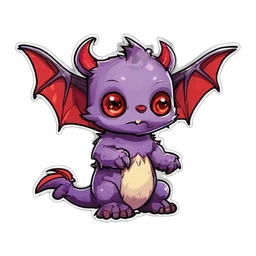
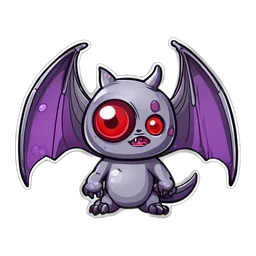
몬스터 5종·보스 10종 그림 반영
- 슬라임, 박쥐(새로 그림), 고블린 궁수, 골렘, 엘리트와 보스 10종
- 박쥐와 그리폰 보스는 떠서 날아다님
- 맞을 때 하얀 실루엣으로 바뀌는 대신 그림 위에 하얀빛이 반투명하게 덮임

diff --git a/imglist.js b/imglist.js
@@ -1,3 +1,3 @@
 // generated by tools/process_assets.py — images available in img/
-const IMG_LIST = ["heroes/alchemist", "heroes/apprentice", "heroes/archangel", "heroes/archer", "heroes/archmage", "heroes/berserker", "heroes/catgirl", "heroes/commander", "heroes/demonlord", "heroes/dragoon", "heroes/elfarcher", "heroes/farmer", "heroes/gunner", "heroes/gunqueen", "heroes/hunter", "heroes/knight", "heroes/lich", "heroes/mage", "heroes/monk", "heroes/ninja", "heroes/paladin", "heroes/priest", "heroes/reaper", "heroes/rogue", "heroes/sailor", "heroes/saint", "heroes/samurai", "heroes/scout", "heroes/shadowqueen", "heroes/sniper", "heroes/squire", "heroes/stormmage", "heroes/sunking", "heroes/tiger", "heroes/titan", "heroes/viking", "items/gold", "monsters/bat", "pets/bee", "pets/bunny", "pets/cat", "pets/dragon", "pets/eagle", "pets/fairy", "pets/fireslime", "pets/fox", "pets/ghost", "pets/golem", "pets/icedragon", "pets/iceslime", "pets/jelly", "pets/kingslime", "pets/owl", "pets/penguin", "pets/phoenix", "pets/puppy", "pets/robot", "pets/shroom", "pets/slime", "pets/starspirit", "pets/turtle", "pets/wolf", "weapons/axe_A", "weapons/axe_B", "weapons/axe_C", "weapons/axe_D", "weapons/axe_EPIC", "weapons/axe_F", "weapons/axe_LEGEND", "weapons/axe_S", "weapons/axe_SS", "weapons/axe_SSS", "weapons/bow", "weapons/bow_A", "weapons/bow_B", "weapons/bow_C", "weapons/bow_D", "weapons/bow_EPIC", "weapons/bow_F", "weapons/bow_LEGEND", "weapons/bow_S", "weapons/bow_SS", "weapons/bow_SSS", "weapons/crossbow", "weapons/crossbow_A", "weapons/crossbow_B", "weapons/crossbow_C", "weapons/crossbow_D", "weapons/crossbow_EPIC", "weapons/crossbow_F", "weapons/crossbow_LEGEND", "weapons/crossbow_S", "weapons/crossbow_SS", "weapons/crossbow_SSS", "weapons/dagger", "weapons/dagger_A", "weapons/dagger_B", "weapons/dagger_C", "weapons/dagger_D", "weapons/dagger_EPIC", "weapons/dagger_F", "weapons/dagger_LEGEND", "weapons/dagger_S", "weapons/dagger_SS", "weapons/dagger_SSS", "weapons/gun", "weapons/gun_A", "weapons/gun_B", "weapons/gun_C", "weapons/gun_D", "weapons/gun_EPIC", "weapons/gun_F", "weapons/gun_LEGEND", "weapons/gun_S", "weapons/gun_SS", "weapons/gun_SSS", "weapons/hammer_A", "weapons/hammer_B", "weapons/hammer_C", "weapons/hammer_D", "weapons/hammer_EPIC", "weapons/hammer_F", "weapons/hammer_LEGEND", "weapons/hammer_S", "weapons/hammer_SS", "weapons/hammer_SSS", "weapons/scythe_A", "weapons/scythe_B", "weapons/scythe_C", "weapons/scythe_D", "weapons/scythe_EPIC", "weapons/scythe_F", "weapons/scythe_LEGEND", "weapons/scythe_S", "weapons/scythe_SS", "weapons/scythe_SSS", "weapons/spear_A", "weapons/spear_B", "weapons/spear_C", "weapons/spear_D", "weapons/spear_EPIC", "weapons/spear_F", "weapons/spear_LEGEND", "weapons/spear_S", "weapons/spear_SS", "weapons/spear_SSS", "weapons/spellbook_A", "weapons/spellbook_B", "weapons/spellbook_C", "weapons/spellbook_D", "weapons/spellbook_EPIC", "weapons/spellbook_F", "weapons/spellbook_LEGEND", "weapons/spellbook_S", "weapons/spellbook_SS", "weapons/spellbook_SSS", "weapons/staff_A", "weapons/staff_B", "weapons/staff_C", "weapons/staff_D", "weapons/staff_EPIC", "weapons/staff_F", "weapons/staff_LEGEND", "weapons/staff_S", "weapons/staff_SS", "weapons/staff_SSS", "weapons/sword", "weapons/sword_A", "weapons/sword_B", "weapons/sword_C", "weapons/sword_D", "weapons/sword_EPIC", "weapons/sword_F", "weapons/sword_LEGEND", "weapons/sword_S", "weapons/sword_SS", "weapons/sword_SSS", "weapons/wand_A", "weapons/wand_B", "weapons/wand_C", "weapons/wand_D", "weapons/wand_EPIC", "weapons/wand_F", "weapons/wand_LEGEND", "weapons/wand_S", "weapons/wand_SS", "weapons/wand_SSS"];
-const IMG_BOTTOM = {"heroes/alchemist": 0.938, "heroes/apprentice": 0.938, "heroes/archangel": 0.938, "heroes/archer": 0.938, "heroes/archmage": 0.938, "heroes/berserker": 0.926, "heroes/catgirl": 0.938, "heroes/commander": 0.938, "heroes/demonlord": 0.934, "heroes/dragoon": 0.938, "heroes/elfarcher": 0.93, "heroes/farmer": 0.938, "heroes/gunner": 0.934, "heroes/gunqueen": 0.938, "heroes/hunter": 0.938, "heroes/knight": 0.938, "heroes/lich": 0.938, "heroes/mage": 0.938, "heroes/monk": 0.934, "heroes/ninja": 0.938, "heroes/paladin": 0.938, "heroes/priest": 0.93, "heroes/reaper": 0.93, "heroes/rogue": 0.938, "heroes/sailor": 0.938, "heroes/saint": 0.938, "heroes/samurai": 0.934, "heroes/scout": 0.938, "heroes/shadowqueen": 0.938, "heroes/sniper": 0.938, "heroes/squire": 0.938, "heroes/stormmage": 0.934, "heroes/sunking": 0.938, "heroes/tiger": 0.934, "heroes/titan": 0.938, "heroes/viking": 0.938, "monsters/bat": 0.867, "pets/bee": 0.727, "pets/bunny": 0.938, "pets/cat": 0.93, "pets/dragon": 0.969, "pets/eagle": 0.934, "pets/fairy": 0.938, "pets/fireslime": 0.938, "pets/fox": 0.938, "pets/ghost": 0.938, "pets/golem": 0.934, "pets/icedragon": 1.0, "pets/iceslime": 0.938, "pets/jelly": 0.938, "pets/kingslime": 0.938, "pets/owl": 0.938, "pets/penguin": 0.926, "pets/phoenix": 0.93, "pets/puppy": 0.938, "pets/robot": 0.938, "pets/shroom": 0.938, "pets/slime": 0.906, "pets/starspirit": 0.969, "pets/turtle": 0.75, "pets/wolf": 0.938};
+const IMG_LIST = ["bosses/boss1", "bosses/boss10", "bosses/boss2", "bosses/boss3", "bosses/boss4", "bosses/boss5", "bosses/boss6", "bosses/boss7", "bosses/boss8", "bosses/boss9", "heroes/alchemist", "heroes/apprentice", "heroes/archangel", "heroes/archer", "heroes/archmage", "heroes/berserker", "heroes/catgirl", "heroes/commander", "heroes/demonlord", "heroes/dragoon", "heroes/elfarcher", "heroes/farmer", "heroes/gunner", "heroes/gunqueen", "heroes/hunter", "heroes/knight", "heroes/lich", "heroes/mage", "heroes/monk", "heroes/ninja", "heroes/paladin", "heroes/priest", "heroes/reaper", "heroes/rogue", "heroes/sailor", "heroes/saint", "heroes/samurai", "heroes/scout", "heroes/shadowqueen", "heroes/sniper", "heroes/squire", "heroes/stormmage", "heroes/sunking", "heroes/tiger", "heroes/titan", "heroes/viking", "items/gold", "monsters/archer", "monsters/bat", "monsters/elite", "monsters/golem", "monsters/slime", "pets/bee", "pets/bunny", "pets/cat", "pets/dragon", "pets/eagle", "pets/fairy", "pets/fireslime", "pets/fox", "pets/ghost", "pets/golem", "pets/icedragon", "pets/iceslime", "pets/jelly", "pets/kingslime", "pets/owl", "pets/penguin", "pets/phoenix", "pets/puppy", "pets/robot", "pets/shroom", "pets/slime", "pets/starspirit", "pets/turtle", "pets/wolf", "weapons/axe_A", "weapons/axe_B", "weapons/axe_C", "weapons/axe_D", "weapons/axe_EPIC", "weapons/axe_F", "weapons/axe_LEGEND", "weapons/axe_S", "weapons/axe_SS", "weapons/axe_SSS", "weapons/bow", "weapons/bow_A", "weapons/bow_B", "weapons/bow_C", "weapons/bow_D", "weapons/bow_EPIC", "weapons/bow_F", "weapons/bow_LEGEND", "weapons/bow_S", "weapons/bow_SS", "weapons/bow_SSS", "weapons/crossbow", "weapons/crossbow_A", "weapons/crossbow_B", "weapons/crossbow_C", "weapons/crossbow_D", "weapons/crossbow_EPIC", "weapons/crossbow_F", "weapons/crossbow_LEGEND", "weapons/crossbow_S", "weapons/crossbow_SS", "weapons/crossbow_SSS", "weapons/dagger", "weapons/dagger_A", "weapons/dagger_B", "weapons/dagger_C", "weapons/dagger_D", "weapons/dagger_EPIC", "weapons/dagger_F", "weapons/dagger_LEGEND", "weapons/dagger_S", "weapons/dagger_SS", "weapons/dagger_SSS", "weapons/gun", "weapons/gun_A", "weapons/gun_B", "weapons/gun_C", "weapons/gun_D", "weapons/gun_EPIC", "weapons/gun_F", "weapons/gun_LEGEND", "weapons/gun_S", "weapons/gun_SS", "weapons/gun_SSS", "weapons/hammer_A", "weapons/hammer_B", "weapons/hammer_C", "weapons/hammer_D", "weapons/hammer_EPIC", "weapons/hammer_F", "weapons/hammer_LEGEND", "weapons/hammer_S", "weapons/hammer_SS", "weapons/hammer_SSS", "weapons/scythe_A", "weapons/scythe_B", "weapons/scythe_C", "weapons/scythe_D", "weapons/scythe_EPIC", "weapons/scythe_F", "weapons/scythe_LEGEND", "weapons/scythe_S", "weapons/scythe_SS", "weapons/scythe_SSS", "weapons/spear_A", "weapons/spear_B", "weapons/spear_C", "weapons/spear_D", "weapons/spear_EPIC", "weapons/spear_F", "weapons/spear_LEGEND", "weapons/spear_S", "weapons/spear_SS", "weapons/spear_SSS", "weapons/spellbook_A", "weapons/spellbook_B", "weapons/spellbook_C", "weapons/spellbook_D", "weapons/spellbook_EPIC", "weapons/spellbook_F", "weapons/spellbook_LEGEND", "weapons/spellbook_S", "weapons/spellbook_SS", "weapons/spellbook_SSS", "weapons/staff_A", "weapons/staff_B", "weapons/staff_C", "weapons/staff_D", "weapons/staff_EPIC", "weapons/staff_F", "weapons/staff_LEGEND", "weapons/staff_S", "weapons/staff_SS", "weapons/staff_SSS", "weapons/sword", "weapons/sword_A", "weapons/sword_B", "weapons/sword_C", "weapons/sword_D", "weapons/sword_EPIC", "weapons/sword_F", "weapons/sword_LEGEND", "weapons/sword_S", "weapons/sword_SS", "weapons/sword_SSS", "weapons/wand_A", "weapons/wand_B", "weapons/wand_C", "weapons/wand_D", "weapons/wand_EPIC", "weapons/wand_F", "weapons/wand_LEGEND", "weapons/wand_S", "weapons/wand_SS", "weapons/wand_SSS"];
+const IMG_BOTTOM = {"bosses/boss1": 0.938, "bosses/boss10": 0.914, "bosses/boss2": 0.922, "bosses/boss3": 0.938, "bosses/boss4": 0.918, "bosses/boss5": 0.938, "bosses/boss6": 0.938, "bosses/boss7": 0.938, "bosses/boss8": 0.93, "bosses/boss9": 0.824, "heroes/alchemist": 0.938, "heroes/apprentice": 0.938, "heroes/archangel": 0.938, "heroes/archer": 0.938, "heroes/archmage": 0.938, "heroes/berserker": 0.926, "heroes/catgirl": 0.938, "heroes/commander": 0.938, "heroes/demonlord": 0.934, "heroes/dragoon": 0.938, "heroes/elfarcher": 0.93, "heroes/farmer": 0.938, "heroes/gunner": 0.934, "heroes/gunqueen": 0.938, "heroes/hunter": 0.938, "heroes/knight": 0.938, "heroes/lich": 0.938, "heroes/mage": 0.938, "heroes/monk": 0.934, "heroes/ninja": 0.938, "heroes/paladin": 0.938, "heroes/priest": 0.93, "heroes/reaper": 0.93, "heroes/rogue": 0.938, "heroes/sailor": 0.938, "heroes/saint": 0.938, "heroes/samurai": 0.934, "heroes/scout": 0.938, "heroes/shadowqueen": 0.938, "heroes/sniper": 0.938, "heroes/squire": 0.938, "heroes/stormmage": 0.934, "heroes/sunking": 0.938, "heroes/tiger": 0.934, "heroes/titan": 0.938, "heroes/viking": 0.938, "monsters/archer": 0.926, "monsters/bat": 0.848, "monsters/elite": 0.938, "monsters/golem": 0.938, "monsters/slime": 0.914, "pets/bee": 0.727, "pets/bunny": 0.938, "pets/cat": 0.93, "pets/dragon": 0.969, "pets/eagle": 0.934, "pets/fairy": 0.938, "pets/fireslime": 0.938, "pets/fox": 0.938, "pets/ghost": 0.938, "pets/golem": 0.934, "pets/icedragon": 1.0, "pets/iceslime": 0.938, "pets/jelly": 0.938, "pets/kingslime": 0.938, "pets/owl": 0.938, "pets/penguin": 0.926, "pets/phoenix": 0.93, "pets/puppy": 0.938, "pets/robot": 0.938, "pets/shroom": 0.938, "pets/slime": 0.906, "pets/starspirit": 0.969, "pets/turtle": 0.75, "pets/wolf": 0.938};

diff --git a/game.js b/game.js
@@ -1442,6 +1442,7 @@ function enemyPose(e) {
   }
   return P;
 }
+const FLYING_MONSTERS = new Set(['monsters/bat', 'bosses/boss9']);
 const enemyImgKey = e => e.boss ? `bosses/boss${(e.lvl - 1) % BOSSES.length + 1}` : `monsters/${e.elite ? 'elite' : e.type}`;
 function drawEnemy(e) {
   const p = G.p, bob = Math.sin(G.time * 8 + e.wob) * 1.5, y = e.y + bob, r = e.r;
@@ -1470,7 +1471,10 @@ function drawEnemy(e) {
   }
   if (im) {
     const S = r * 2.8;
-    ctx.drawImage(e.flash > 0 ? whiteOf(im) : im, e.x - S / 2, y + r * 0.95 - S * imgBottom(imKey), S, S);
+    const lift = FLYING_MONSTERS.has(imKey) ? r * 0.5 + Math.sin(G.time * 5 + e.wob) * 3 : 0;
+    const ix = e.x - S / 2, iy = y + r * 0.95 - S * imgBottom(imKey) - lift;
+    ctx.drawImage(im, ix, iy, S, S);
+    if (e.flash > 0) { ctx.globalAlpha = 0.6; ctx.drawImage(whiteOf(im), ix, iy, S, S); ctx.globalAlpha = 1; } // hit flash over the picture
   } else {
   ctx.fillStyle = col;
   if (e.type === 'golem') { rr(e.x - r, y - r, r * 2, r * 2, r * 0.4); ctx.fill(); }
